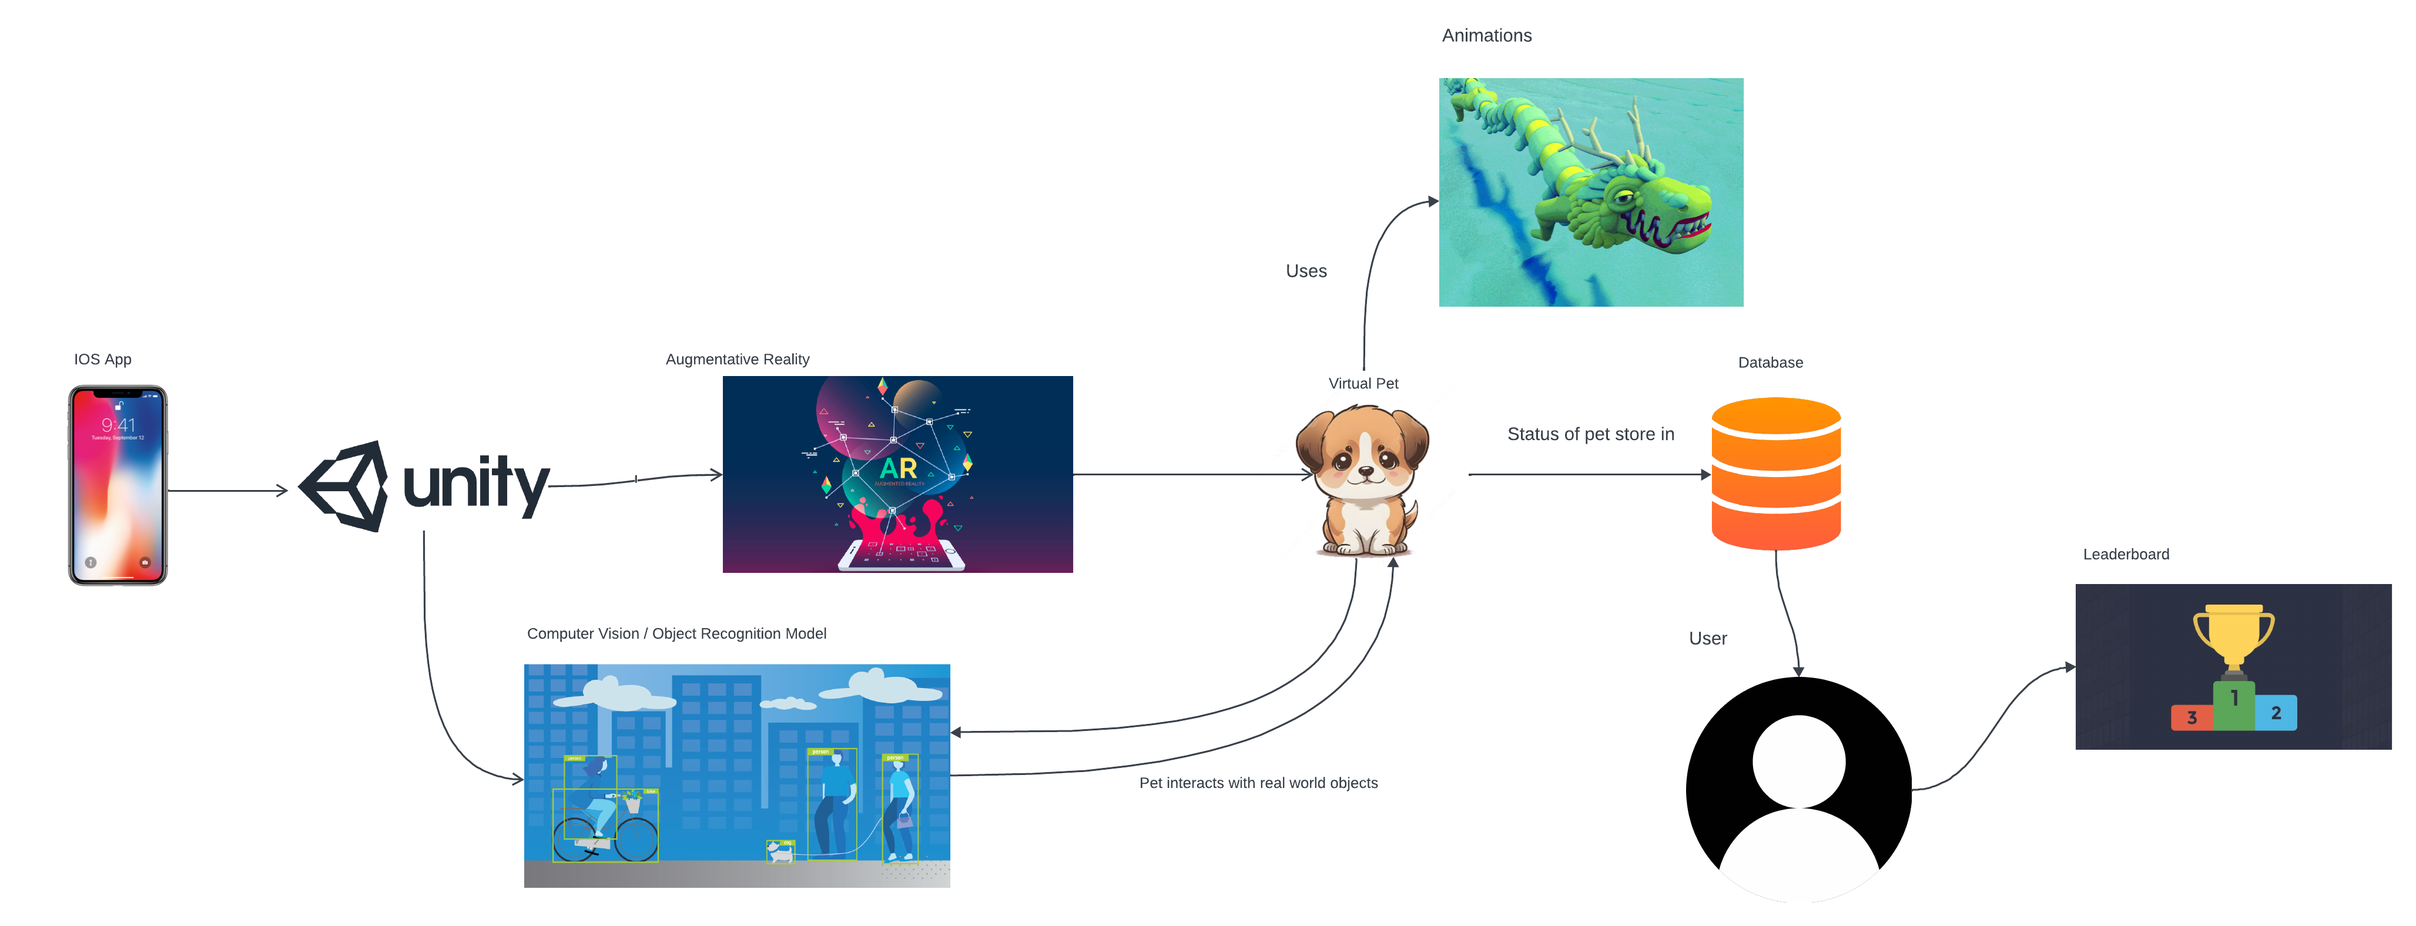
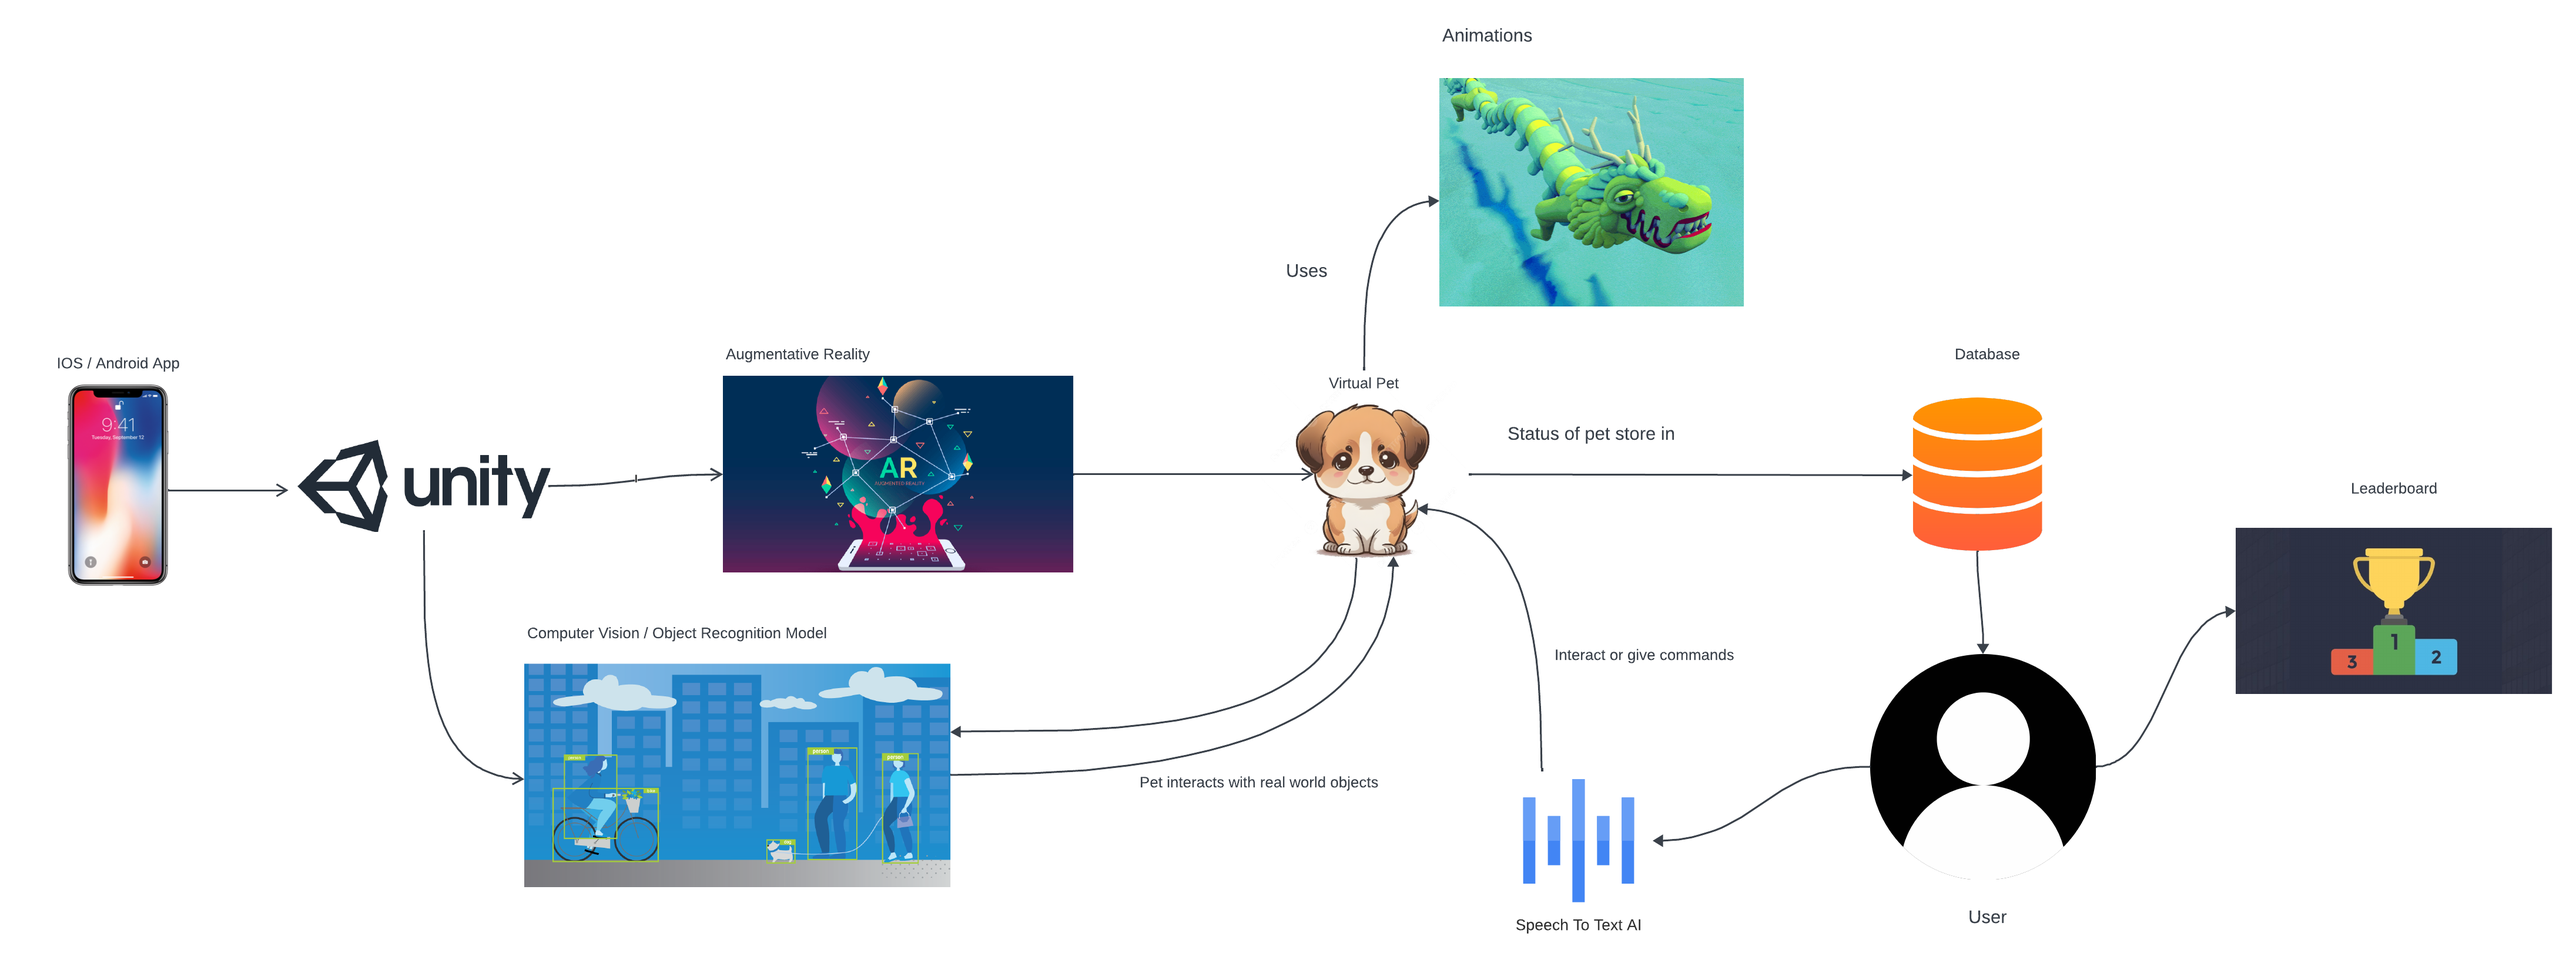
updated system-block-diagram

diff --git a/documentation/docs/requirements/system-block-diagram.md b/documentation/docs/requirements/system-block-diagram.md
@@ -5,4 +5,6 @@ sidebar_position: 2
 # System Block Diagram
 ![Sytem Block Diagram](./img/system-block-diagram.png)
 
-This is the system-block-diagram
+Figure 1. High level design of the AR Pets Pals application
+Figure 1 depicts the high-level design of the application from a user's mobile device. They will be able to open the app on their mobile device and start interacting with their virtual pet. The application will run on Unity, a cross-platform game engine, which will then interact with a augmented reality engine that will create a pet of their choice. That pet will later be able to recognize real-world objects around it using Object Recognition and be able to interact with them using animations. The main idea of the pet is to make it content or not based on food that you eat, it will be able to analyze your food and determine how healthy that food is, which will make it sad/angry or happy. Users will compete with other users based on their pet’s status. 
+
